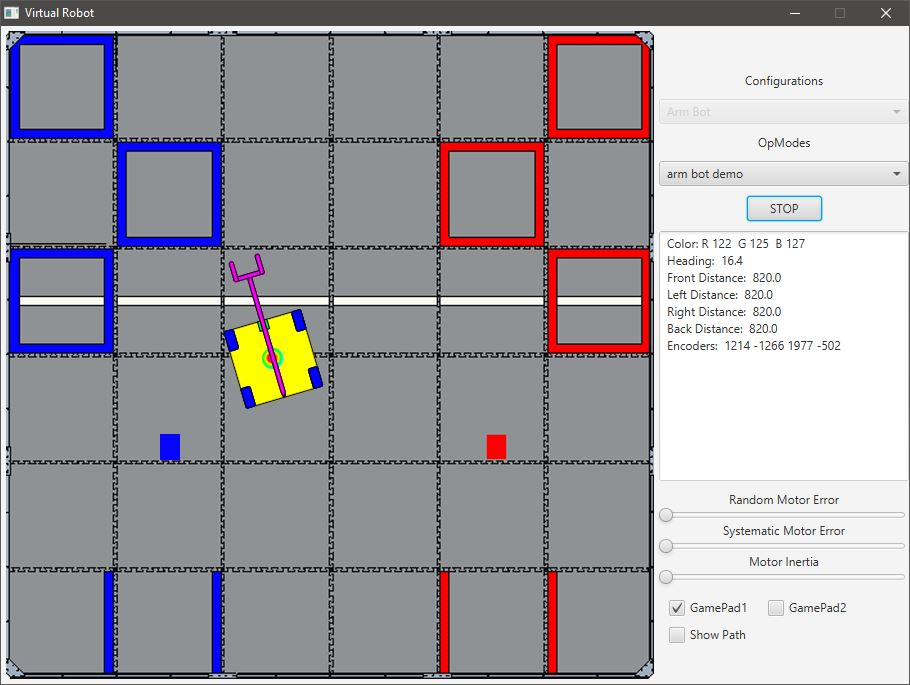
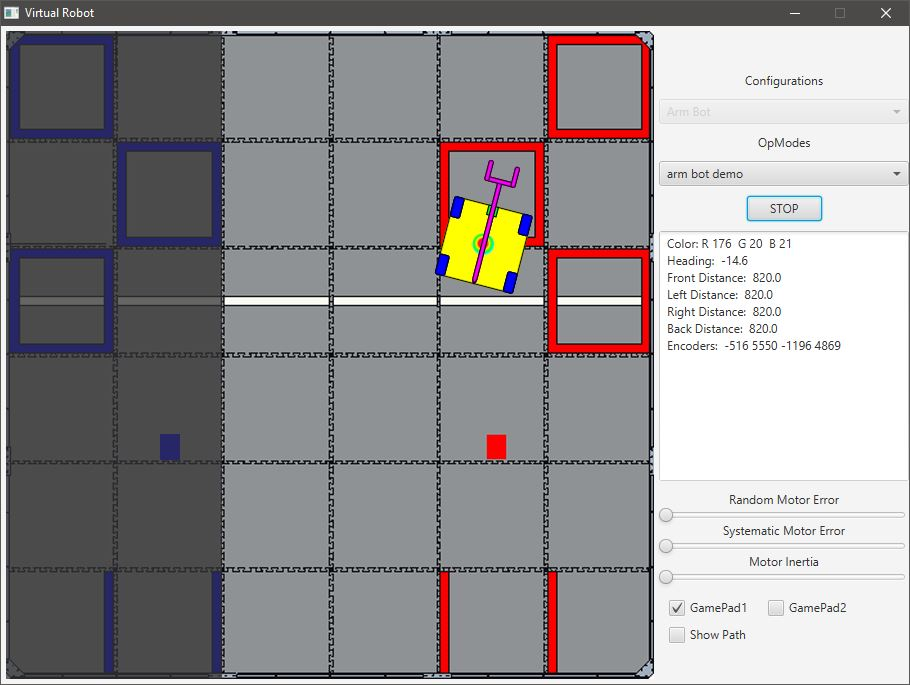
Changed readme image

diff --git a/Controller/src/virtual_robot/config/Config.java b/Controller/src/virtual_robot/config/Config.java
@@ -9,7 +9,7 @@ public class Config {
     /**
      * FRACTION OF TOTAL FIELD TO CONSTRAIN ROBOT MOTION
      */
-    public static final double X_MIN_FRACTION = 0.3333; //0 for WHOLE FIELD OR BLUE REMOTE, 0.3333 for RED REMOTE FIELD
+    public static final double X_MIN_FRACTION = 0; //0 for WHOLE FIELD OR BLUE REMOTE, 0.3333 for RED REMOTE FIELD
     public static final double X_MAX_FRACTION = 1; //1 for WHOLE FIELD OR RED REMOTE, 0.6667 for BLUE REMOTE FIELD
     public static final double Y_MIN_FRACTION = 0;  //Leave this alone for Ultimate Goal
     public static final double Y_MAX_FRACTION = 1;  //Leave this alone for Ultimate Goal
